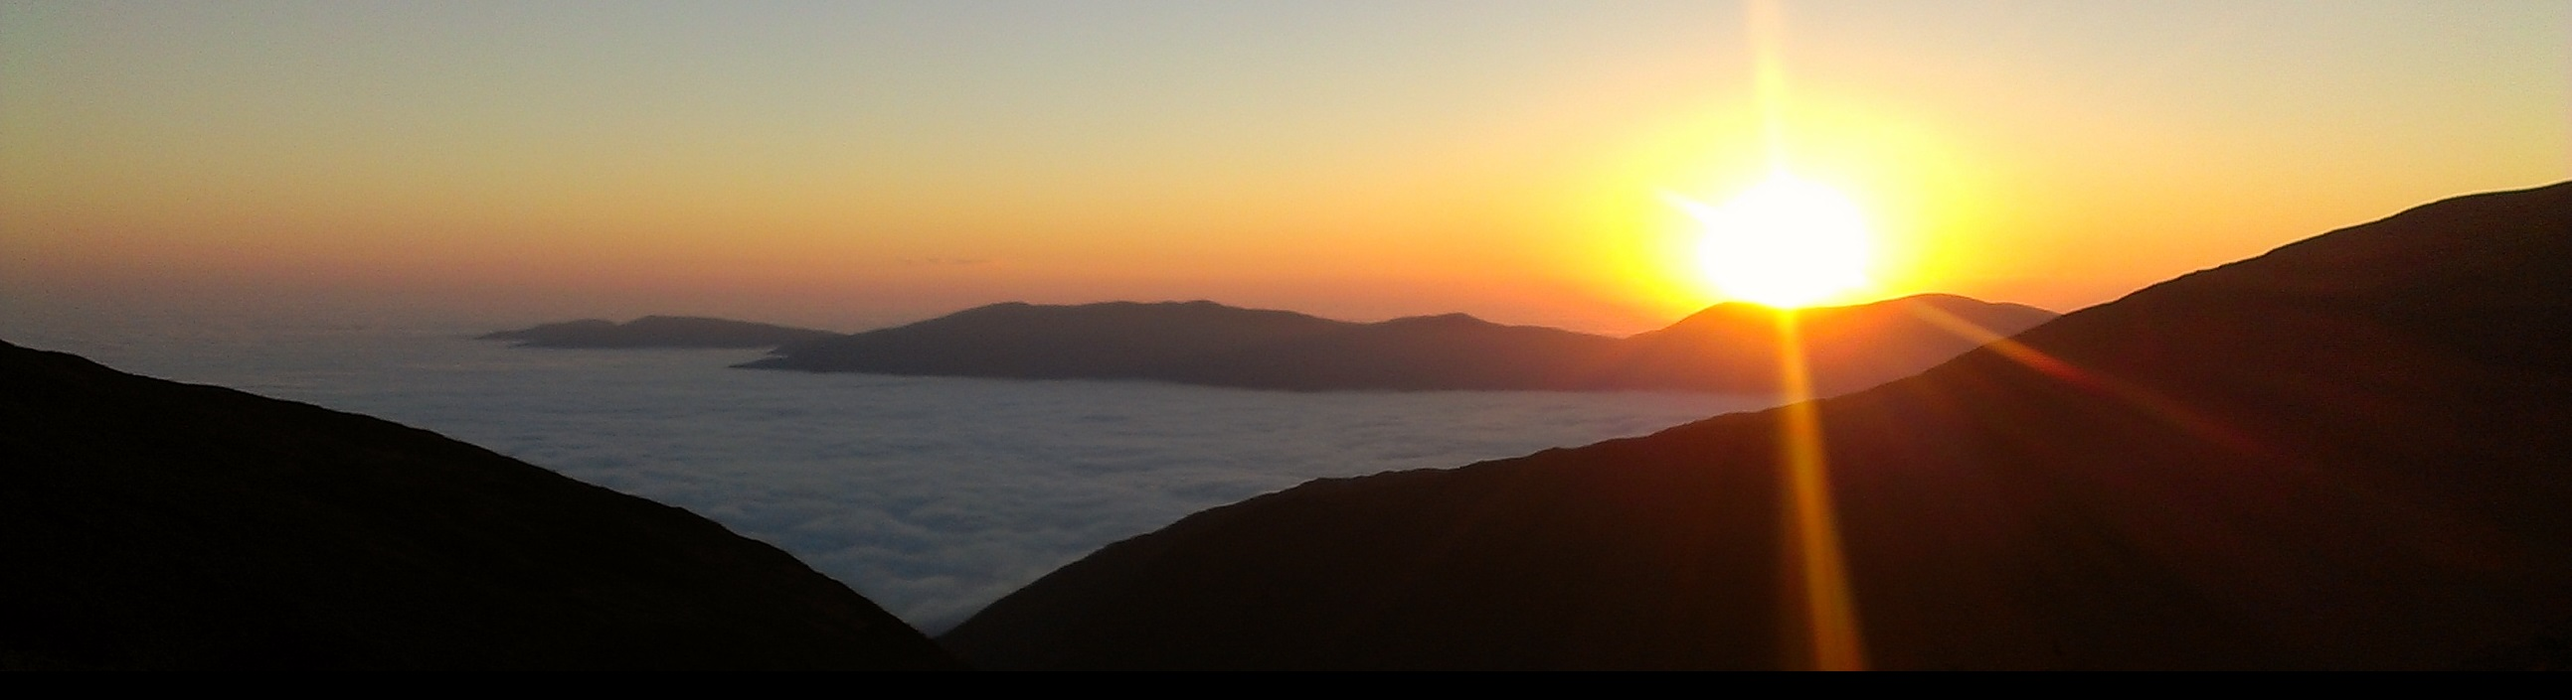
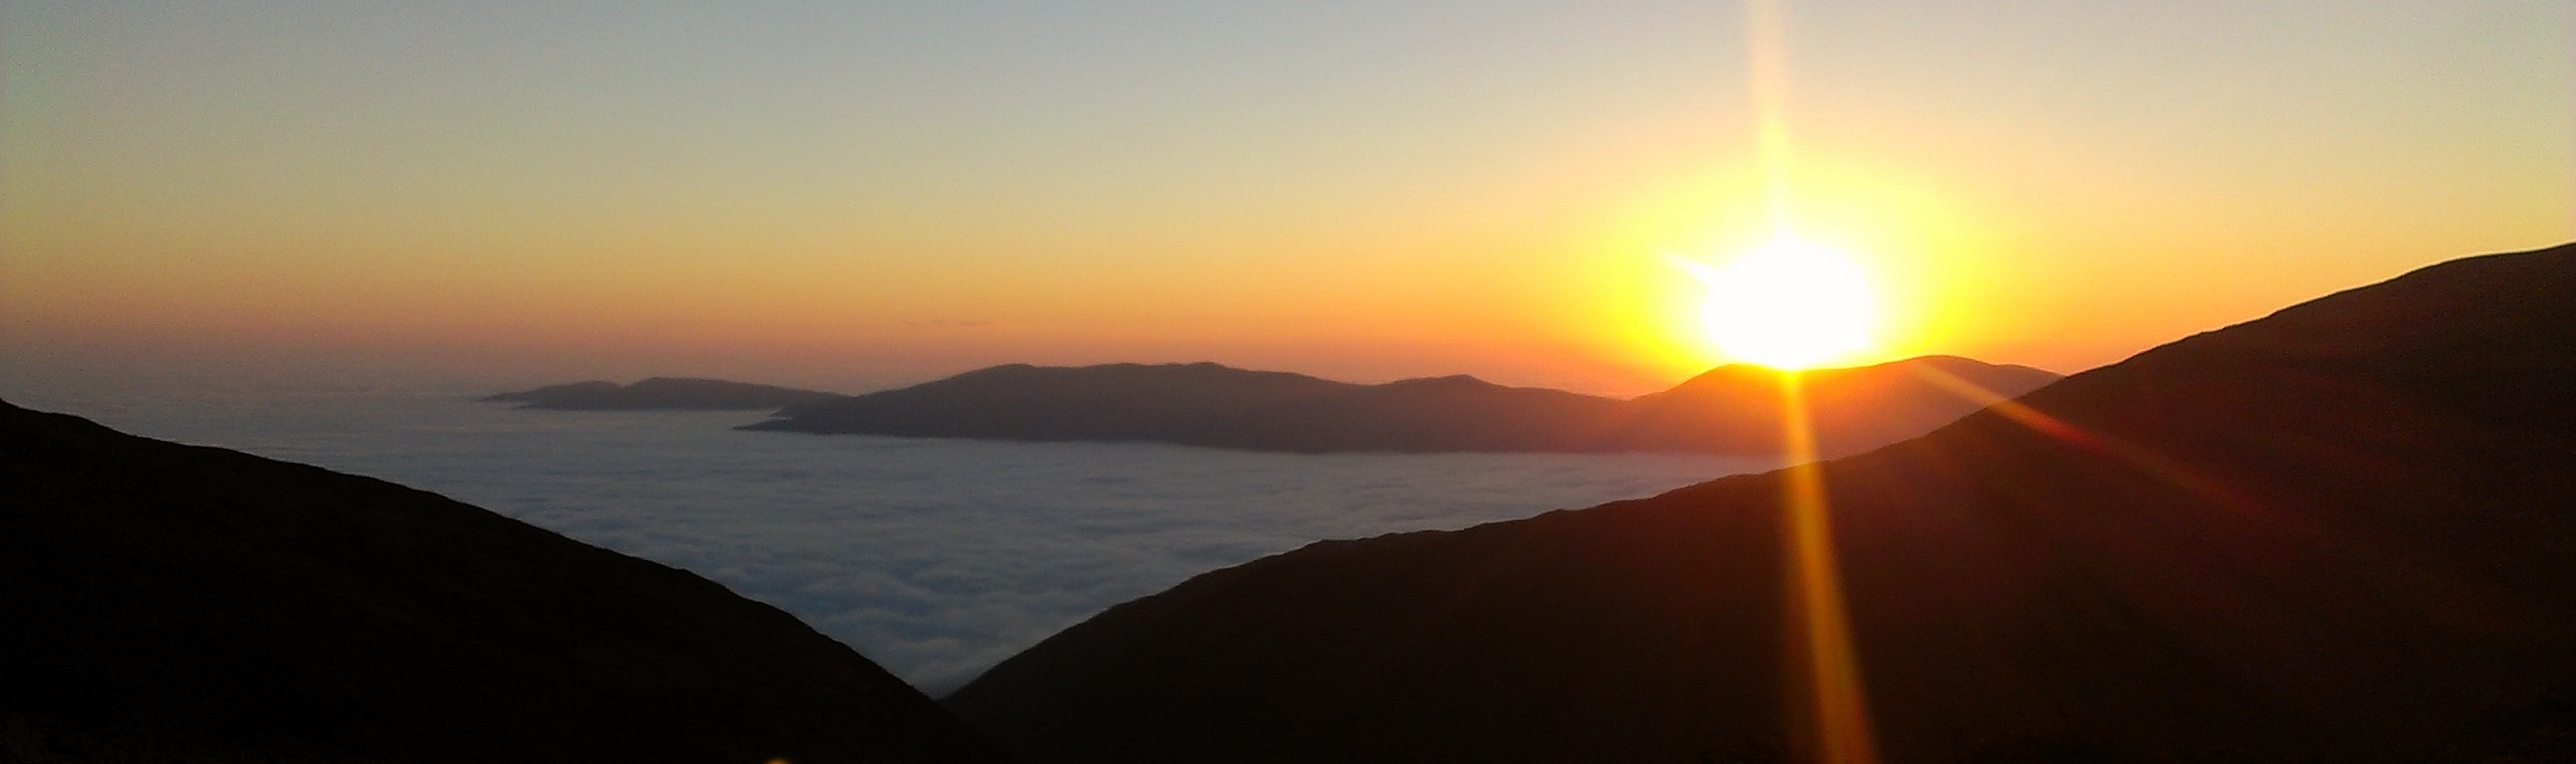
stretchy img is stretchy

diff --git a/_includes/header.html b/_includes/header.html
@@ -8,11 +8,6 @@
 
     <link href="/css/bootstrap.css" rel="stylesheet">
     <link href="css/mystyle.css" rel="stylesheet">
-    <style>
-      body {
-        padding-top: 0px;
-      }
-    </style>
     <link href="/css/bootstrap-responsive.css" rel="stylesheet">
 
     <!-- HTML5 shim, for IE6-8 support of HTML5 elements -->
@@ -23,7 +18,11 @@ ript>
   </head>
 
   <body>
-    <div class="topbar"></div>
+    <div class="container-fluid banner">
+    <div class="col-xs-12 banner-img">
+      <img src="/topbar.jpg" alt="Sunrise from the Presidential Range" class="adjustable"/>
+    </div> 
+    </div> 
 
     <div class="navbar navbar-inverse">
       <div class="navbar-inner">

diff --git a/_site/index.html b/_site/index.html
@@ -8,11 +8,6 @@
 
     <link href="/css/bootstrap.css" rel="stylesheet">
     <link href="css/mystyle.css" rel="stylesheet">
-    <style>
-      body {
-        padding-top: 0px;
-      }
-    </style>
     <link href="/css/bootstrap-responsive.css" rel="stylesheet">
 
     <!-- HTML5 shim, for IE6-8 support of HTML5 elements -->
@@ -23,7 +18,11 @@ ript>
   </head>
 
   <body>
-    <div class="topbar"></div>
+    <div class="container-fluid banner">
+    <div class="col-xs-12 banner-img">
+      <img src="/topbar.jpg" alt="Sunrise from the Presidential Range" class="adjustable"/>
+    </div> 
+    </div> 
 
     <div class="navbar navbar-inverse">
       <div class="navbar-inner">

diff --git a/_site/css/mystyle.css b/_site/css/mystyle.css
@@ -1,9 +1,21 @@
-.topbar {
-  background-image: url(/topbar.jpg);
-  background-repeat: no-repeat;
-  background-size: 100% 100%;
-  width: 100%;
-  height: 230px;
+.banner {
+  padding:0;
+  display:flex;
+  justify-content:center;
+  overflow: hidden;
+}
+
+.banner-img {
+  padding:0;
+  max-width:2592px;
+  max-height:330px;
+
+}
+
+.adjustable {
+  max-width:100%;
+  min-height:100%;
+  /* img-size 2591*761 */
 }
 
 .brand {

diff --git a/css/mystyle.css b/css/mystyle.css
@@ -1,9 +1,21 @@
-.topbar {
-  background-image: url(/topbar.jpg);
-  background-repeat: no-repeat;
-  background-size: 100% 100%;
-  width: 100%;
-  height: 230px;
+.banner {
+  padding:0;
+  display:flex;
+  justify-content:center;
+  overflow: hidden;
+}
+
+.banner-img {
+  padding:0;
+  max-width:2592px;
+  max-height:330px;
+
+}
+
+.adjustable {
+  max-width:100%;
+  min-height:100%;
+  /* img-size 2591*761 */
 }
 
 .brand {
